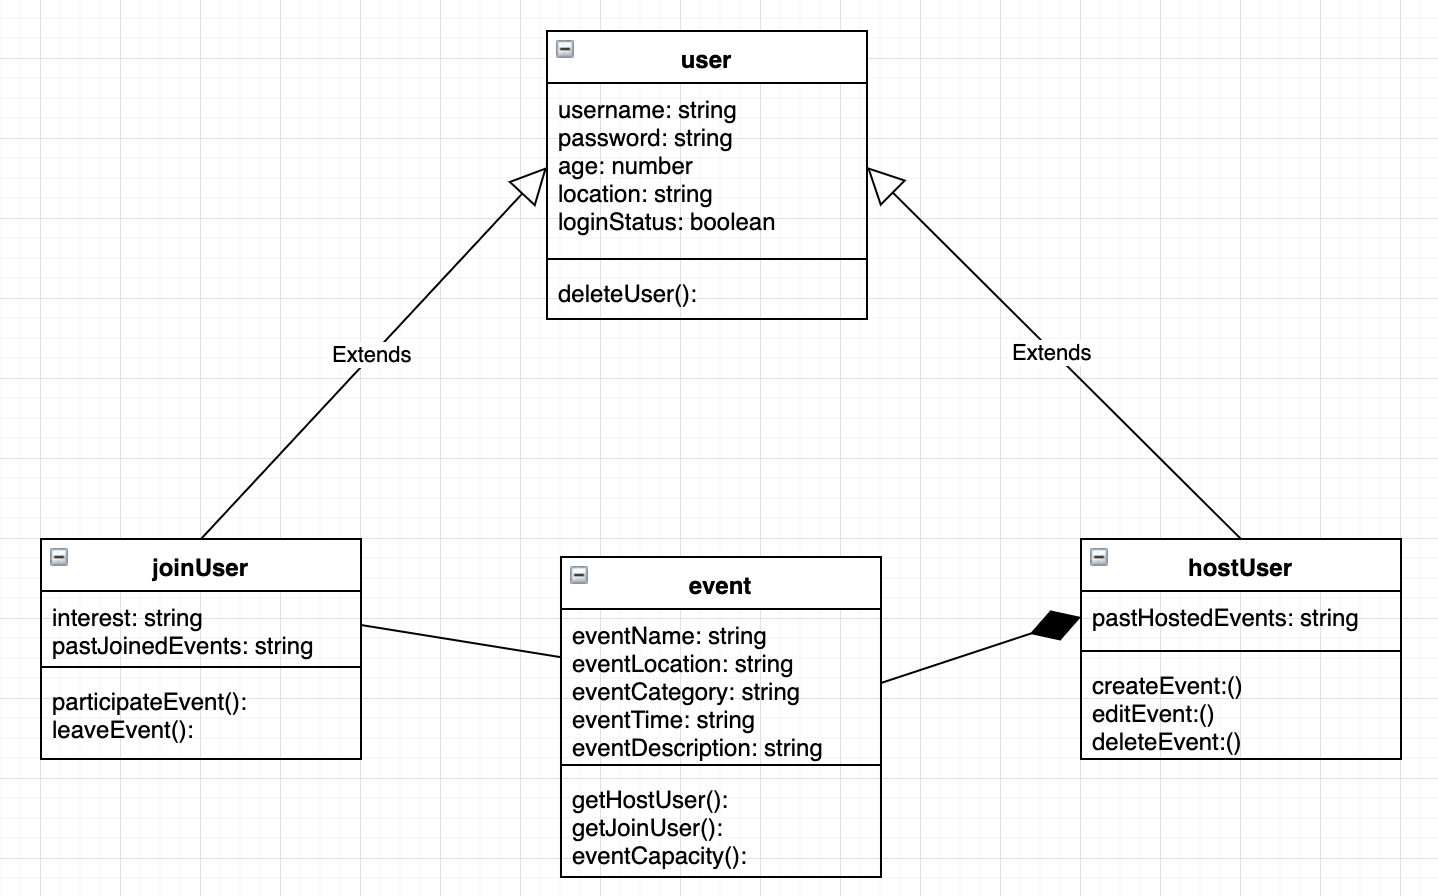
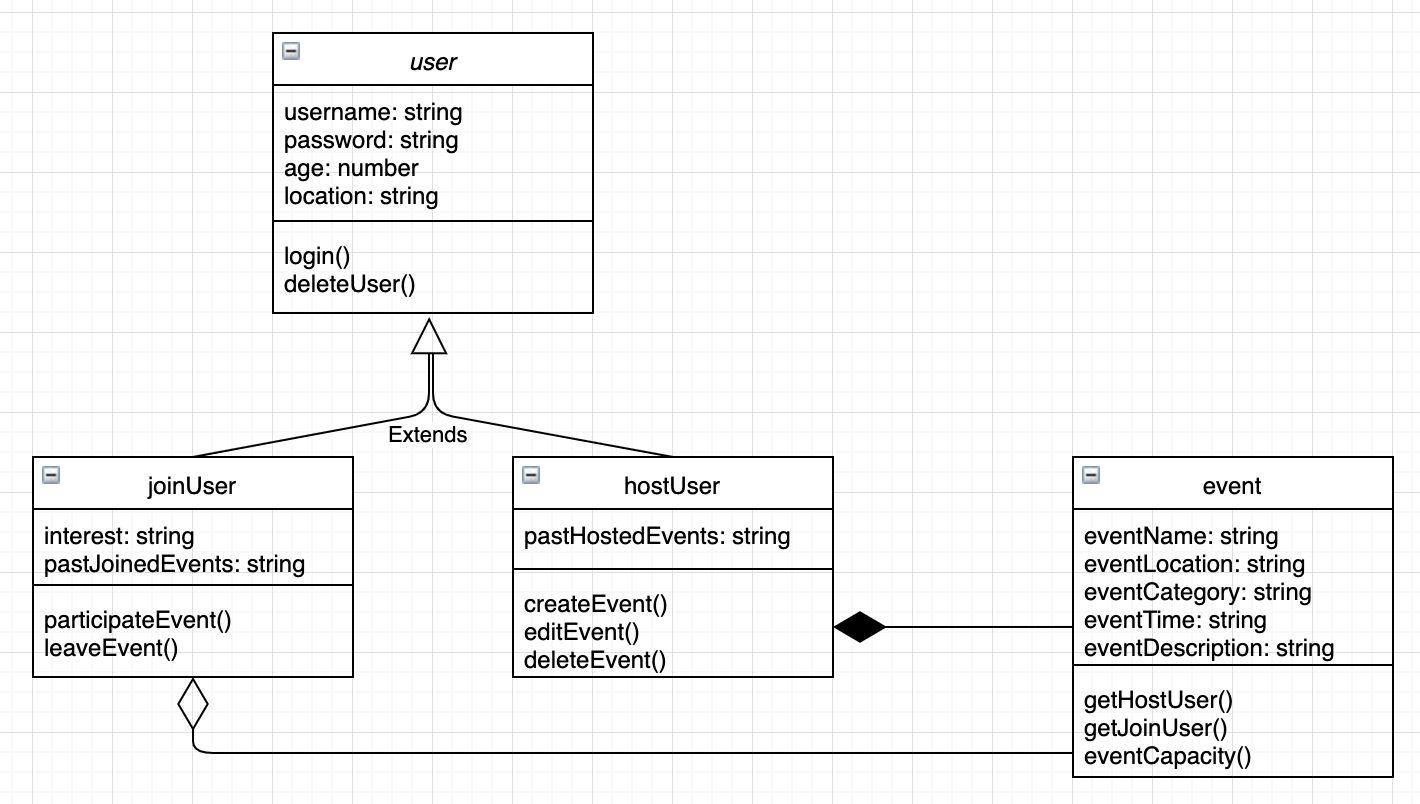
Third commit

diff --git a/README.md b/README.md
@@ -1,20 +1,45 @@
 # Come2Gether
 
 ##Præsentation af system
-Come2Gether er et administrativt system, hvis formål er at formidle social aktiviteter for ubekendte mennesker i forskellige byer, med det formål at skabe nye sociale relationer. Dette vil især være relevant for mennesker, som netop er flyttet et nyt sted hen, og skal til at etablere sig en ny omgangskreds. For at bruge systemet, skal man enten oprette en joinUser eller hostUser. Som joinUser vil man have mulighed for at deltage i events, som er lokalitets-, aktivitets- og tidsbestemte. Som hostUser vil man have mulighed for at oprette førnævnte events. Vi forestiller os, at et event i Come2Gether systemet kunne se således ud: 
+Vi forestiller os at lave et administrativt system, kaldet Come2Gether. Formålet for Come2Gether er at formidle social aktiviteter for ubekendte mennesker i forskellige byer, med det formål at skabe nye sociale relationer. Dette vil især være relevant for mennesker, som netop er flyttet et nyt sted hen, og skal til at etablere sig en ny omgangskreds. Det kan også være interessant for nuværende beboere der ønsker at udvide deres omgangskreds, med diverse arrangementer og aktiviteter. 
 
-> *København: Mad: fællesspisning fredag d. 13/9 kl. 19:00. 4 tilmeldte 2 pladser tilbage*
+For at bruge systemet, skal man enten oprette en joinUser eller hostUser. Som joinUser vil man have mulighed for at deltage i events, som er lokalitets-, aktivitets- og tidsbestemte. Som hostUser vil man have mulighed for at oprette førnævnte events. Vi forestiller os, at et event i Come2Gether systemet kunne se således ud:  
 
-I systemet vil det være muligt at inddele de forskellige events i kategorier såsom sport, mad, kultur mm., med yderligere beskrivelser. Derved kan joinUsers browse gennem de forskellige events efter kategori og lokation.    
+> *København: Mad: fællesspisning fredag d. 13/9 kl. 19:00. 4 tilmeldte 12 pladser tilbage*
 
-
-##Design af system
-
-####Klassediagram
-![](classdiagram.png)
+I systemet vil det være muligt at inddele de forskellige events i interesser såsom sport, mad, kultur mm., med yderligere beskrivelser. Derved kan joinUsers browse gennem de forskellige events efter interesser og lokation.      
 
 ##Kravspecifikation
-
+###Aktører:
+- joinUser
 - hostUser
 - event
-- mm.
+
+###Kravspecifikationer inddelt efter aktører:
+joinUser:
+- Skal kunne oprette sig som bruger.
+- Skal kunne opgive placering.
+- Skal kunne logge på og se oversigt over alle events der er oprettet i en given radius.
+- Skal kunne tilføje interesser og filtrere begivenheder derefter.
+- Skal kunne tilmelde sig event.
+- Skal kunne framelde sig event .
+- Skal kunne se tidligere tilmeldte events.
+- Skal kunne slette sin bruger.
+
+hostUser:
+- Skal kunne oprette sig som bruger.
+- Skal kunne opgive placering.
+- Skal logge ind og se organiserede events (både forrige og fremtidige).
+- Skal kunne tilføje events og kategorisere dem i interesser.
+- Skal kunne ændre i egne events.
+- Skal kunne slette egne events.
+- Skal kunne slette sin bruger.
+
+event:
+- Skal kunne se hostUser.
+- Skal kunne se joinUser(s).
+- Skal kunne beregne kapacitet.
+
+
+###Klassediagram
+![](classdiagram.png)
